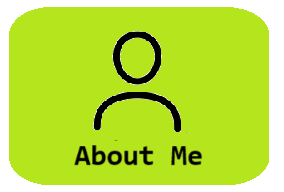
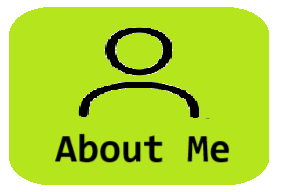
[v2.1.0] About me pages added

Changed region(s): [[0.2535, 0.125, 0.7042, 0.6875], [0.1972, 0.6875, 0.8169, 0.875]]

diff --git a/chrome/about.html b/chrome/about.html
@@ -6,23 +6,45 @@
     <title>About Me</title>
     <style>
         body {
-            font-family: Arial, sans-serif;
+            font-family: system-ui, -apple-system, BlinkMacSystemFont, 'Segoe UI', Roboto, Oxygen, Ubuntu, Cantarell, 'Open Sans', 'Helvetica Neue', sans-serif;
             background-color: #f4f4f9;
             color: #333;
             margin: 0;
             padding: 0;
             display: flex;
-            justify-content: center;
-            align-items: center;
-            height: 100vh;
+            flex-direction: column; /* Stack elements vertically */
+            align-items: center; /* Center elements horizontally */
+            justify-content: center; /* Center elements vertically */
+            height: 100vh; /* Full viewport height */
         }
+
         .about-me-container {
-            text-align: center;
             background: #fff;
-            padding: 20px;
+            padding: 10px;
             border-radius: 10px;
             box-shadow: 0 4px 6px rgba(0, 0, 0, 0.1);
-            max-width: 400px;
+            max-width: 600px;
+            width: 70%;
+            display: flex;
+            justify-content: space-between; /* For the internal div alignment */
+        }
+        .content {
+            flex: 60;
+            text-align: center;
+            padding: 10px;
+        }
+        .version-info {
+            flex: 40;
+            text-align: center;
+            display: flex;
+            flex-direction: column;
+            justify-content: center;
+            padding: 5px;
+        }
+        .divider {
+            width: 0.5px;
+            background: gray;
+            margin: 10px 10px;
         }
         img {
             border-radius: 50%;
@@ -31,7 +53,7 @@
             object-fit: cover;
             margin-bottom: 20px;
         }
-        h1 {
+        h1, h2 {
             font-size: 24px;
             margin-bottom: 10px;
         }
@@ -49,30 +71,74 @@
             border-radius: 25px;
             font-size: 16px;
             font-weight: bold;
-            margin-top: 20px;
+            margin-top: 10px;
             transition: background-color 0.3s ease;
         }
         .more-profile-links:hover {
             background-color: #0056b3;
         }
+        ul {
+            list-style-type: none;
+            padding: 0;
+            margin: 20px 0 20px 0;
+            text-align: left;
+            font-size: 15px;
+        }
+        ul li::before {
+            content: "• ";
+            color: #333;
+        }
+        .version-info h2 {
+            font-size: 20px;
+            margin-bottom: 10px;
+            text-align: left;
+        }
+
+        .version-info img {
+            max-width: 100%; /* Ensures the image doesn't exceed the container width */
+            height: auto;
+            margin-bottom: 20px; /* Adds space below the image */
+            border-radius: 10px; /* Optional: Adds rounded corners */
+            box-shadow: 0 4px 6px rgba(0, 0, 0, 0.1); /* Optional: Adds a subtle shadow */
+        }
     </style>
 </head>
 <body>
     <div class="about-me-container">
-        <a href="https://ibb.co/dpV3R54">
-            <img src="https://i.ibb.co/M1tjmCk/profile.jpg" alt="profile">
-        </a>
-        <h1>Avik Sarkar</h1>
-        <p>
-            I am a Test Engineer at Google with extensive experience in the tech industry, 
-            starting my career at Samsung Research and contributing over 5 years. I hold a Bachelor's degree 
-            from Comilla University (2018 graduate).
-        </p>
-        <p>
-            My technical expertise includes test automation, Bluetooth protocol development, and software quality assurance.
-        </p>
-        <a href="https://topmate.io/aviksarkar/" class="more-profile-links" target="_blank">Get 1:1 Career Mentorship</a>
-        <a href="https://linktr.ee/avik_sarkar" class="more-profile-links" target="_blank">View My Extended Profile</a>
+        <!-- Current Content Section -->
+        <div class="content">
+            <a href="https://ibb.co/dpV3R54">
+                <img src="https://i.ibb.co/M1tjmCk/profile.jpg" alt="profile">
+            </a>
+            <h1>Avik Sarkar</h1>
+            <p>
+                I am a Test Engineer at Google with extensive experience in the tech industry, 
+                starting my career at Samsung Research and contributing over 5 years. I hold a Bachelor's degree 
+                from Comilla University (2016 graduate).
+            </p>
+            <p>
+                My technical expertise includes test engineering, Bluetooth protocol development, and machine learning for software testing.
+            </p>
+            <a href="https://topmate.io/aviksarkar/" class="more-profile-links" target="_blank">Get 1:1 Career Mentorship</a>
+            <a href="https://linktr.ee/avik_sarkar" class="more-profile-links" target="_blank">View My Extended Profile</a>
+        </div>
+
+        <!-- Divider Line -->
+        <div class="divider"></div>
+
+        <!-- Version Info Section -->
+        <div class="version-info">
+            <a href="https://ibb.co/r7Xqsqm">
+                <img src="https://i.ibb.co/4m0CdC7/thanks.png" alt="thanks" border="0">
+            </a>
+            <h2>Current Version: v2.1.0</h2>
+            <ul>
+                <li>Company-based problems filtering.</li>
+                <li>Tabbed layout.</li>
+                <li>About Me page.</li>
+            </ul>
+            <a href="https://github.com/ssavi-ict/LeetCode-Which-Company/blob/main/CHANGELOG.md" class="more-profile-links" target="_blank">Learn More</a>
+        </div>
     </div>
 </body>
 </html>

diff --git a/chrome/background.js b/chrome/background.js
@@ -83,9 +83,14 @@ chrome.runtime.onStartup.addListener(function () {
 });
 
 // Event listener for the browser installation/upgrade
-chrome.runtime.onInstalled.addListener(function () {
+chrome.runtime.onInstalled.addListener(function (details) {
   scheduleFirstNotification();
+  if (details.reason === "update") {
+    chrome.tabs.create({ url: "about.html" });
+  }
 });
+
+
 
 // Function to schedule the first notification
 function scheduleFirstNotification() {
@@ -100,9 +105,6 @@ function scheduleFirstNotification() {
   });
 }
 
-// chrome.tabs.onCreated.addListener(function(tab) {
-//   fetchNotificationContent();
-// });
 
 // Event listener for the alarm trigger
 chrome.alarms.onAlarm.addListener(function (alarm) {
@@ -119,13 +121,6 @@ chrome.alarms.onAlarm.addListener(function (alarm) {
 function scheduleSecondNotification() {
   chrome.alarms.create("secondNotificationAlarm", { delayInMinutes: 15 });
 }
-
-// // Event listener for notification click
-// chrome.notifications.onClicked.addListener(function (notificationId) {
-//   if (notificationId.startsWith("cracktech_notification_")) {
-//     chrome.tabs.create({ url: "https://leetcode.com/contest/" });
-//   }
-// });
 
 // Event listener for notification button clicks
 chrome.notifications.onButtonClicked.addListener(function (notificationId, buttonIndex) {

diff --git a/chrome/index.html b/chrome/index.html
@@ -67,11 +67,6 @@
         </div>
         <br><br>
         <div class="tab-container">
-            <!-- Tab buttons -->
-            <!-- <div class="tab-buttons">
-                <button onclick="openTab('companyQuestions', 'Filtered by Company')" class="active">Company Based Filtering</button>
-                <button onclick="openTab('companyTable', 'Filtered by Problems')">Problem Based Filtering</button>
-            </div> -->
             <div class="tab-buttons">
                 <button id="companyQuestionsTab" class="active">Company Specific Question List</button>
                 <button id="interviewQuestionsTab">Interview Questions</button>

diff --git a/chrome/script/tabsim.script.js b/chrome/script/tabsim.script.js
@@ -1,5 +1,4 @@
 document.addEventListener("DOMContentLoaded", () => {
-    // loadCompanyNames();  // Load company names when the page loads
     loadCompanyNames();
     bindTabEvents();
 });
@@ -30,12 +29,6 @@ async function openTab(tabName, headerText, tabElement) {
 
     document.getElementById(tabName).classList.add('active');
     tabElement.classList.add('active');
-
-    // Check if company names are already loaded
-    /*const tbody = document.getElementById('companyNameTable').querySelector('tbody');
-    if (tabName === 'companyQuestions' && tbody.children.length === 0) {
-        await loadCompanyNames();
-    } */
 }
 
 
